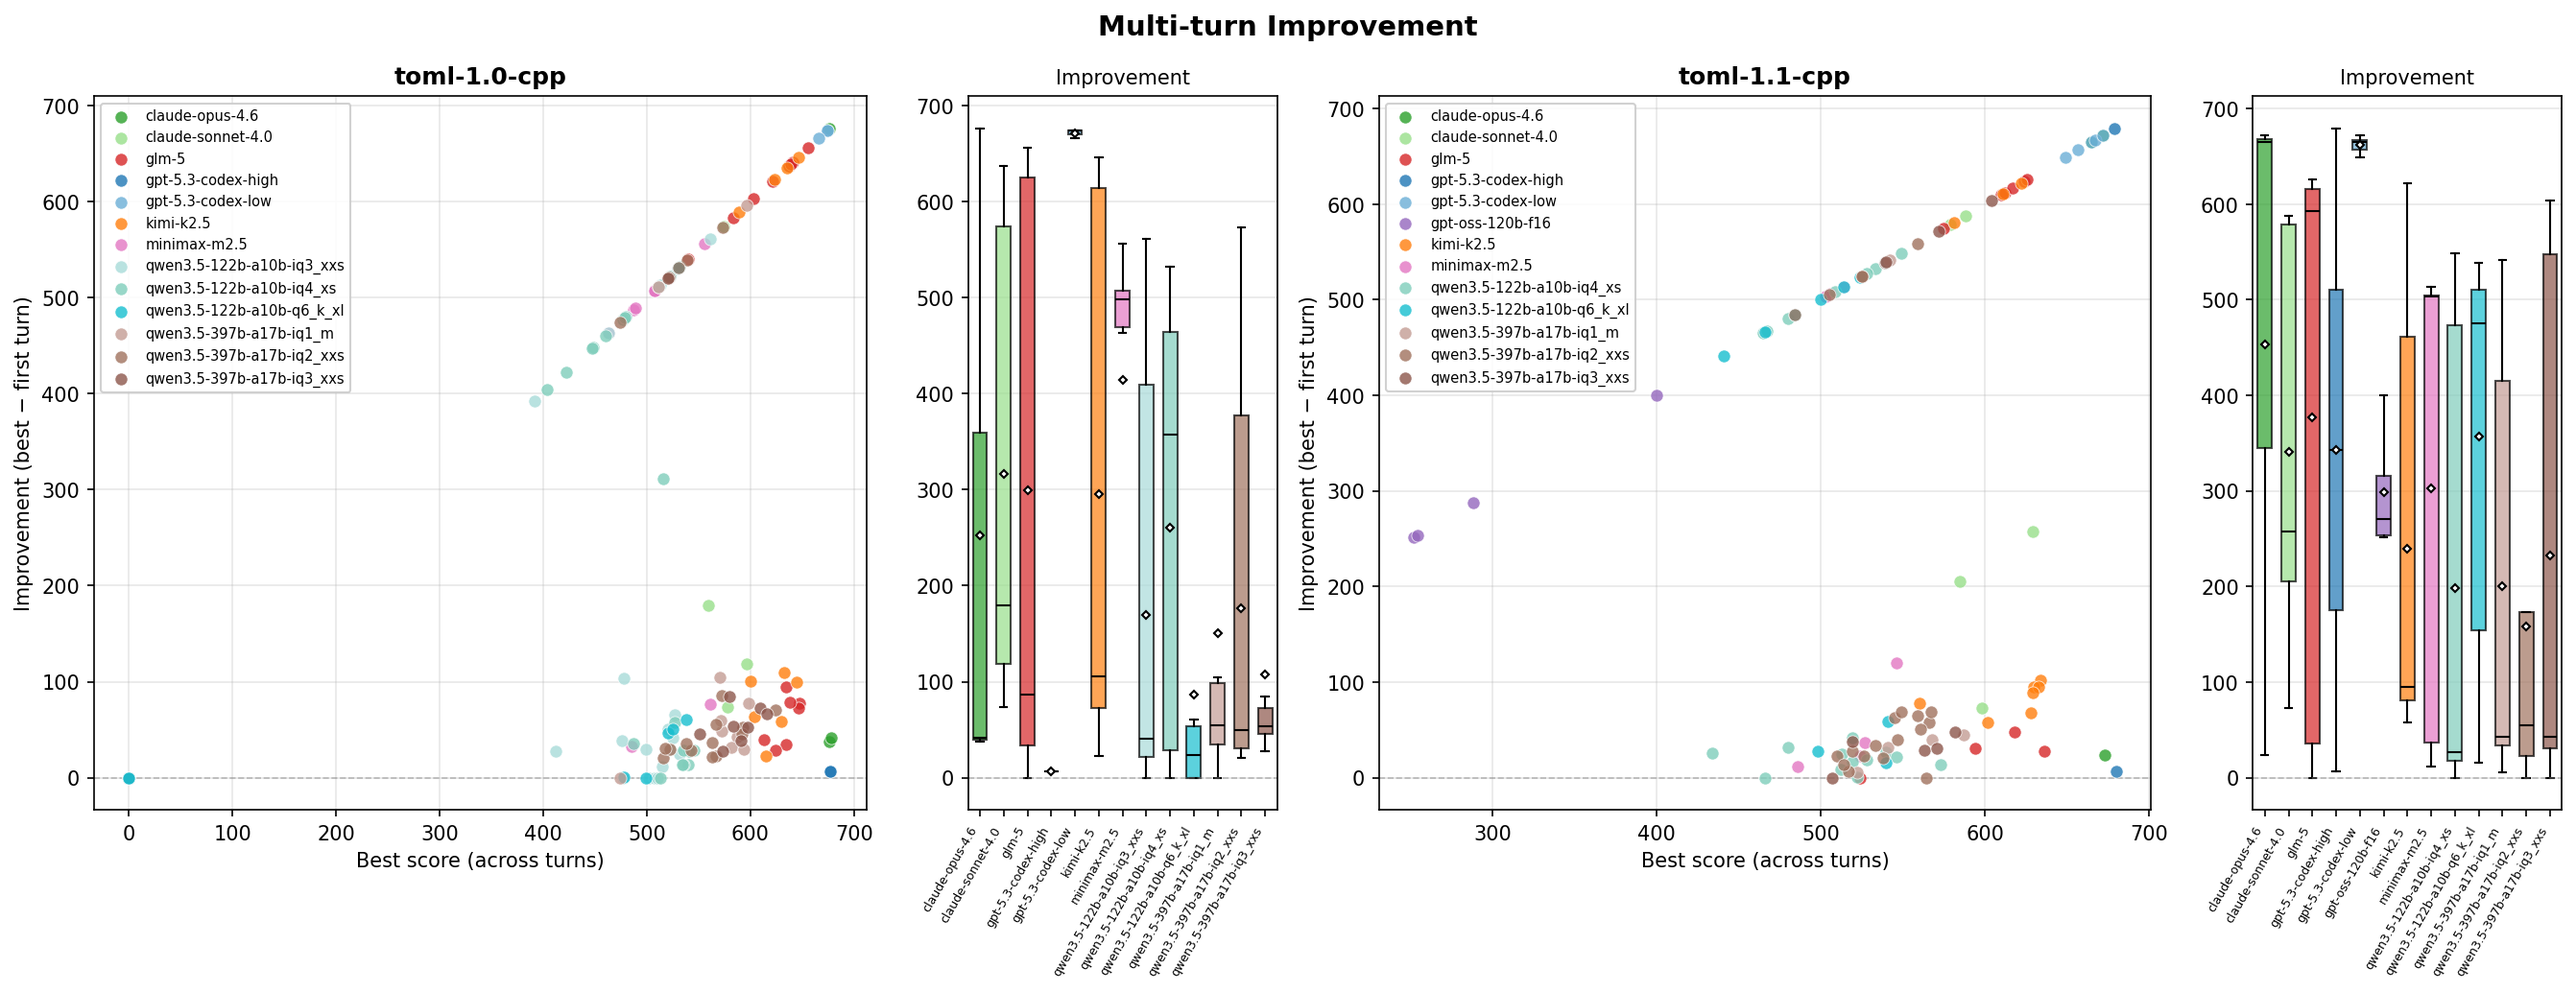
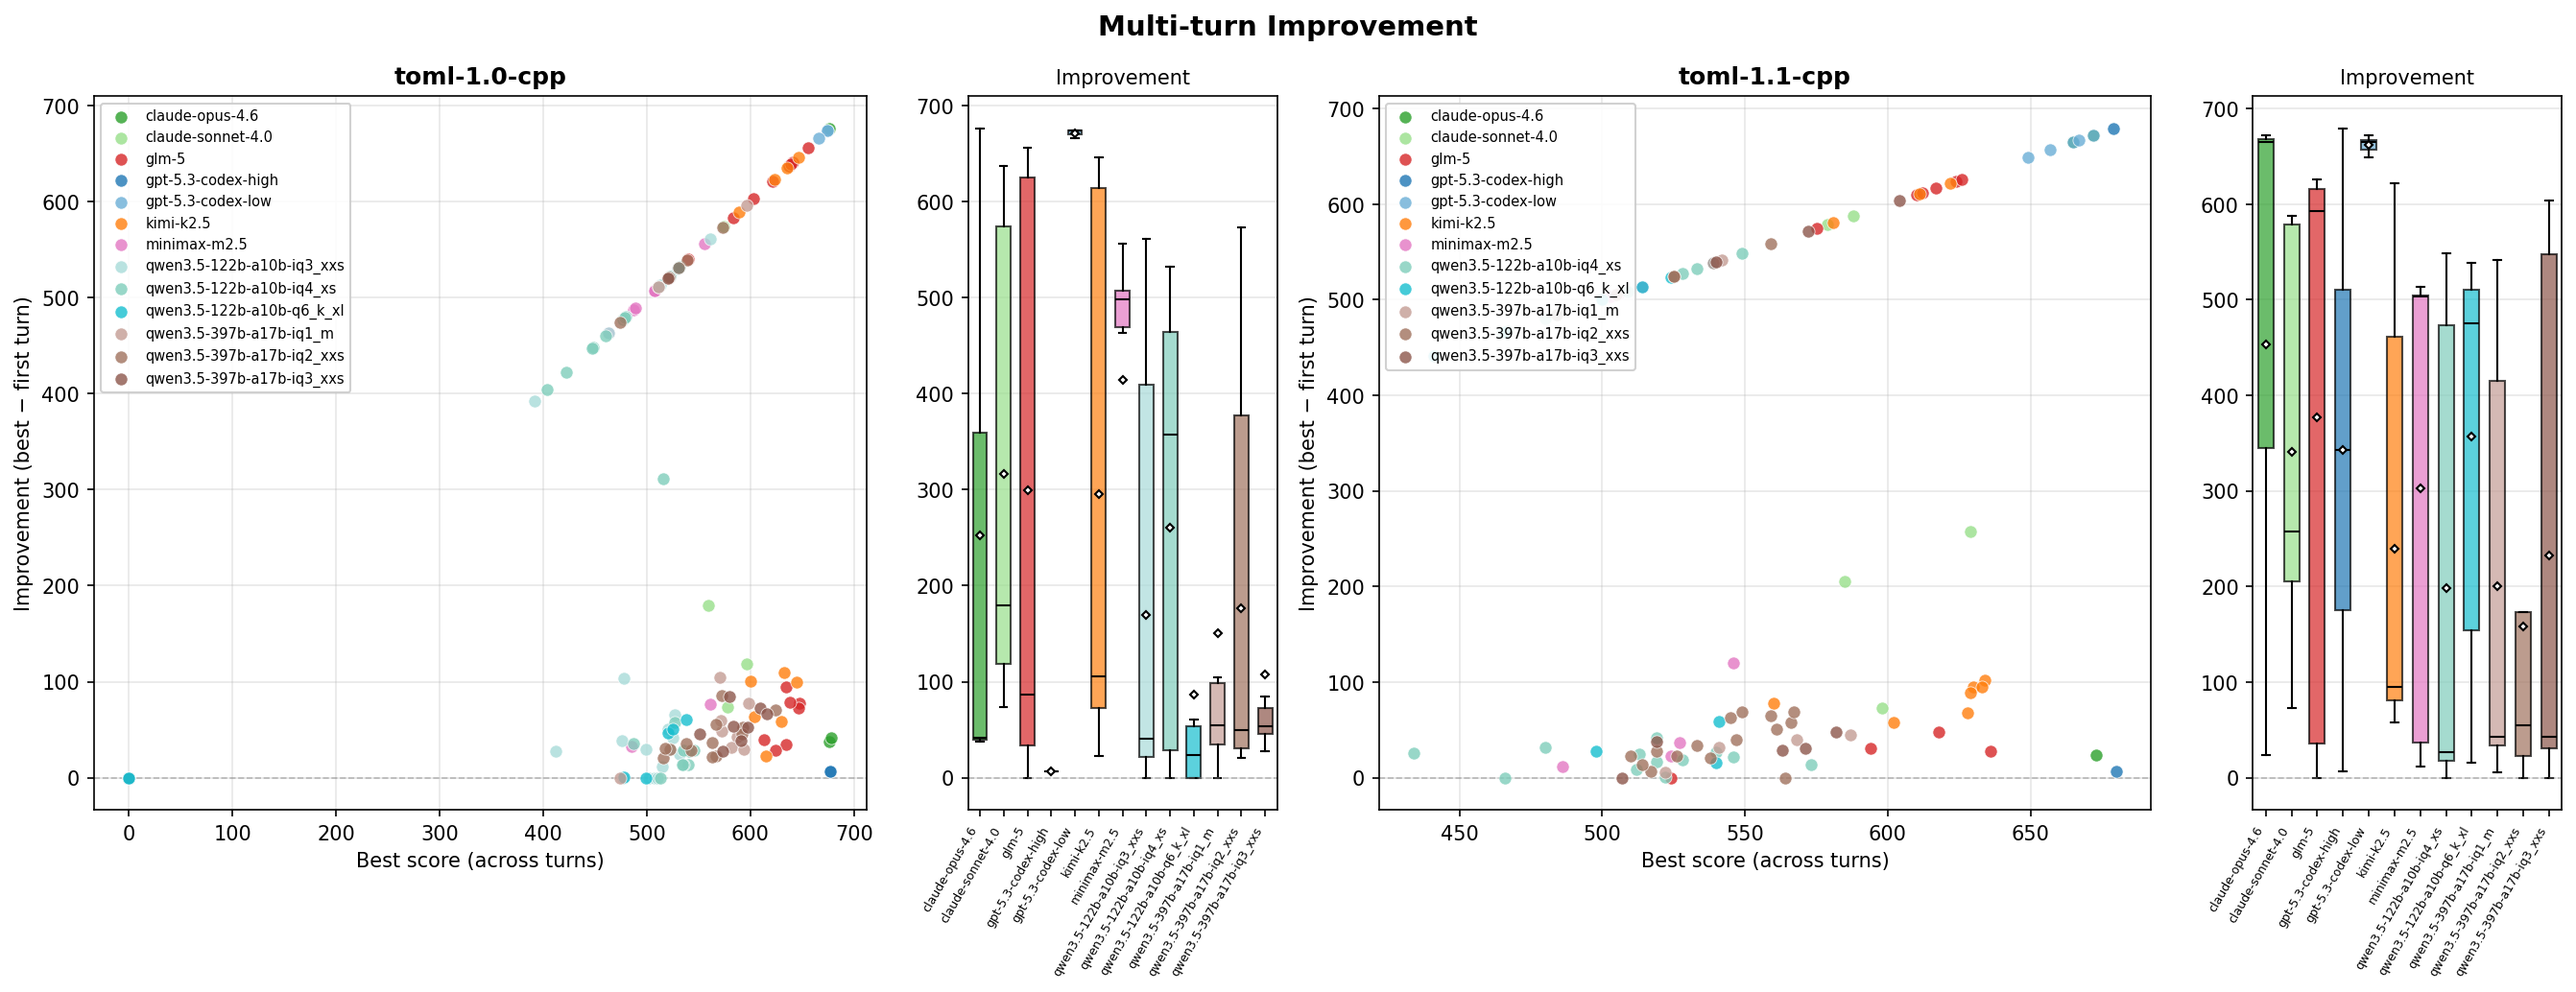
Remove gpt-oss-120b-f16 results, fix model name resolution to prefer slug
Removed gpt-oss-120b-f16 (old model, no longer relevant) from results,
MODEL_CONFIG, and MODEL_COLORS.

Also fixed analyze_runs.py to prefer meta.json "slug" over "model" when
determining display names. Previously it used the raw model ID (e.g.
"anthropic/claude-opus-4-6") which caused plot_comparison.py to fail
matching against MODEL_CONFIG slugs and fall back to "unknown" category.

Regenerated all summaries and charts.

diff --git a/plot_comparison.py b/plot_comparison.py
@@ -23,7 +23,6 @@ MODEL_CONFIG = OrderedDict([
     ("kimi-k2.5",           "api"),
     ("minimax-m2.5",        "api"),
     ("devstral",            "api"),
-    ("gpt-oss-120b-f16",        "local"),
     # qwen3.5-397b-a17b: grouped by quant level (high to low)
     ("qwen3.5-397b-a17b",       "local"),
     ("qwen3.5-397b-a17b-iq3_xxs", "local"),

diff --git a/analyze_runs.py b/analyze_runs.py
@@ -195,7 +195,7 @@ def main():
             model_name = label
         elif meta_file.exists():
             meta = json.loads(meta_file.read_text())
-            model_name = meta.get("model", run_dir.name)
+            model_name = meta.get("slug", meta.get("model", run_dir.name))
         else:
             model_name = run_dir.name
 

diff --git a/analyze_turns.py b/analyze_turns.py
@@ -23,7 +23,6 @@ MODEL_COLORS = {
     "kimi-k2.5": "#ff7f0e",
     "minimax-m2.5": "#e377c2",
     "devstral": "#bcbd22",
-    "gpt-oss-120b-f16": "#9467bd",
     # qwen3.5-397b-a17b variants (brown tones, darker = higher quant)
     "qwen3.5-397b-a17b": "#5b3a1a",
     "qwen3.5-397b-a17b-iq3_xxs": "#8c564b",
